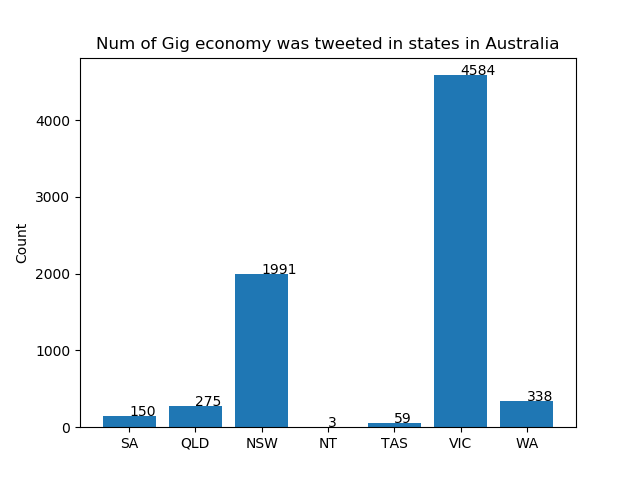
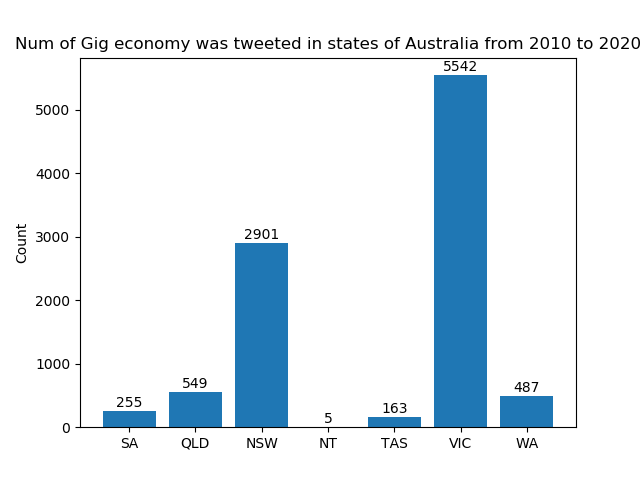
Most things has been done for Feng's part. Follow the structure and you will be merry

diff --git a/ansible/roles/application-frontend/files/frontend-app/app/templates/home.html b/ansible/roles/application-frontend/files/frontend-app/app/templates/home.html
@@ -2,28 +2,76 @@
 
 {% block body %}
 
-<div class="jumbotron text-center">
-    <h1>Welcome To Gig Economy World</h1>
-    <p class="lead">This application is built to analyse the relationship between occurance of gig economy related tweets to employment rate for states in Australia.</p>
+<div class="jumbotron text-center top-space">
+    <h1>Welcome To Gig Economy World In Australia</h1>
+    <p class="lead">presented by Forever_33</p>
 </div>
-<div class="row" style="margin-left: 0px; margin-right: 0px;">
-    <div class="form-group">
 
-        <label>Select a topic you are interested in: </label>
-        <div class="row">
-            <div class="col-lg-10">
-                <select class="form-control" id="selectedOption">
-                    <option value="1">Ubereats</option>
-                    <option value="2">Airbnb</option>
-                </select>
-            </div>
-            <div class="col-lg-2">
-                <button class="btn btn-primary">Submit</button>
+<div>
+    <div class="row form-group border-top">
+        <div class="col-lg-12">
+            <h1>Hello There!</h1>
+            <div class="pt-3">
+                <p>Have you ever heard of 'gig economy'? If you never heard of it, <strong>you are at the right place!</strong></p>
+                <p>A gig economy is a <strong>free market system</strong> in which temporary positions are common and organizations hire independent workers for short-term commitments.</p>
+                <p>Some examples of gig economy jobs including: <strong>Uber, Hungry panda, Free lancer... and even more! </strong></p>
+                <p>Here is the time for us to help <strong>you</strong> to explore the wonderful land of gig economy in Australia!</p>
+                <p>First, allow us to show you the result that shows the <strong>count of tweets related to Gig Economy in states of Australia!</strong></p>
             </div>
         </div>
     </div>
+
+    {% if session.logged_in == NULL %}
+    <div class="row form-group border-top">
+        <br /><br />
+        <div class="col-lg-7 border">
+            <img src="{{ path }}" />
+        </div>
+        <div class="col-lg-5">
+            <h2>AMAZING HUH? </h2>
+            <p>As we see that in the state of Australia, there are most of the people who tweet of gig economy! </p>
+            <p>Interesting enough, although New South Wales has 2.3M populations more than Victoria, Victoria still has the <strong>higher number of tweets related to gig economy compared to New South Wales!</strong>!</p>
+            <p>We can make an assumption that maybe <strong>gig economy activity in Victoria has been conducted more frequently than other states.</strong></p>
+            <br />
+            <p>Furthurmore, as we look into details, it is not hard to find that <strong>only a few of people actually tweet of gig economy in Northern Territory.</strong></p>
+            <br />
+            <br />
+            <br />
+            <br />
+            <br />
+        </div>
+    </div>
+       
+    {% endif %}
+    <div class="row form-group">
+        <div class="col-lg-12 border-top">
+
+            <h2>Now is your time to find out the truth about Gig Economy!</h2>
+            <br />
+        </div>
+
+        <div class="col-lg-12" style="font-size: 18px;">
+            <label>Select a topic you are interested in: </label>
+        </div>
+        <form action="/scenario" method="post">
+            <div class="col-lg-10">
+
+                <select class="form-control" name="id">
+                    <option value="yun">Yun's scenario</option>
+                    <option value="rohan">Rohan's scenario</option>
+                    <option value="alvin">Alvin's scenario</option>
+                </select>
+
+            </div>
+            <div class="col-lg-2">
+                <button class="btn btn-primary" type="submit">Submit</button>
+            </div>
+            <div class="col-lg-12 bottom-space">
+            </div>
+        </form>
+
+    </div>
+       
 </div>
-{% if searched %}
-<img src={{path}} />
-{% endif %}
+
 {% endblock %}

diff --git a/ansible/roles/application-frontend/files/frontend-app/app/templates/about.html b/ansible/roles/application-frontend/files/frontend-app/app/templates/about.html
@@ -1,9 +1,95 @@
 {% extends 'layout.html' %}
 
 {% block body %}
-    <div>
-        <h1>About Us</h1>
-        <p>We are team 33 and we are proud of what we have done.</p>
+    <div class="jumbotron text-center">
+        <h1>The hard work was done during the quarantine period by all these heros...... and heroine</h1>
+        <p class="lead">presented by Forever_33</p>
     </div>
+    <div>
+        <div class="row border-top">
+            <div class="col-lg-12">
+                <h1>Group 33 (Forever_33)</h1>
+                <img class="group-img-size" src="img/group33photo.png" />
 
+            </div>
+            <div class="col-lg-12">
+                <p>
+                    <br />
+                    Despite of the hardship to meet together due to Covid-19 Pandemic, a group of young, passionate, determined heros (& heroine) decided to conquer the limitation to propose a great insight
+                    on gig economy, by creating this web application to satisfy the curiosity of the community.
+                    The hard work behind this project including setting up cloud system using
+                    <strong>ansible, Melbourne Nectar Cloud, docker</strong>, data harvesting using <strong>Twitter API</strong>, web application
+                    development using <strong>Flask.</strong>
+                </p>
+                <p>Total hardwork sowed in: <strong>734.33 hours</strong></p>
+            </div>
+        </div>
+        <div class="row border-top">
+            <div class="col-lg-7 border-right">
+                <h1>Shorye</h1>
+                <img src="img/Shorye.png" />
+            </div>
+            <div class="col-lg-5 pt-3 md-fontsize">
+                <ul>
+                    <li>Main Infrastructure Engineer</li>
+                </ul>
+            </div>
+        </div>
+        <br />
+        <div class="row border-top">
+            <div class="col-lg-7 border-right">
+                <h1>Rohan</h1>
+                <img src="img/Rohan.png" />
+            </div>
+            <div class="col-lg-5 pt-3 md-fontsize">
+                <ul>
+                    <li>Main Infrastructure Engineer</li>
+                </ul>
+            </div>
+        </div>
+        <br />
+        <div class="row border-top">
+            <div class="col-lg-7 border-right">
+                <h1>Feng</h1>
+                <img src="img/Feng.png" />
+            </div>
+            <div class="col-lg-5 pt-3 md-fontsize">
+                <ul>
+                    <li>Twitter Harvester Developer</li>
+                    <li>Front End Developer</li>
+                    <li>Integrating tweepy to twitter harvester</li>
+                    <li>Bug fixing for twitter harvester</li>
+                    <li>Setting up MVC structure for web application</li>
+                    <li>Deployment of Web Application</li>
+                </ul>
+            </div>
+        </div>
+        <br />
+        <div class="row border-top">
+            <div class="col-lg-7 border-right">
+                <h1>Alvin</h1>
+                <img src="img/Alvin.png" />
+            </div>
+            <div class="col-lg-5 pt-3 md-fontsize">
+                <ul>
+                    <li>Twitter Harvester Developer</li>
+                </ul>
+            </div>
+        </div>
+        <br />
+        <div class="row border-top">
+            <div class="col-lg-7 border-right">
+                <h1>Yun</h1>
+                <img src="img/Yun.png" />
+            </div>
+            <div class="col-lg-5 pt-3 md-fontsize">
+                <ul>
+                    <li>Twitter Harvester Developer</li>
+                </ul>
+            </div>
+        </div>
+        <br />
+
+
+    </div>
 {% endblock %}

diff --git a/ansible/roles/application-frontend/files/frontend-app/app/templates/includes/_navbar.html b/ansible/roles/application-frontend/files/frontend-app/app/templates/includes/_navbar.html
@@ -1,4 +1,4 @@
-<nav class="navbar navbar-default">
+<nav class="navbar navbar-default sticky">
       <div class="container">
         <div class="navbar-header">
           <button type="button" class="navbar-toggle collapsed" data-toggle="collapse" data-target="#navbar" aria-expanded="false" aria-controls="navbar">
@@ -7,14 +7,13 @@
             <span class="icon-bar"></span>
             <span class="icon-bar"></span>
           </button>
-          <a class="navbar-brand" href="#">Group33</a>
+          <a class="navbar-brand" href="#">Forever_33</a>
         </div>
         <div id="navbar" class="collapse navbar-collapse">
           <ul class="nav navbar-nav">
             <li><a href="/">Home</a></li>
-            <li><a href="/about">About</a></li>
+            <li><a href="/about">About Us</a></li>
           </ul>
-
           <ul class="nav navbar-nav navbar-right">
 
           </ul>

diff --git a/ansible/roles/application-frontend/files/frontend-app/app/content/gigeco.css b/ansible/roles/application-frontend/files/frontend-app/app/content/gigeco.css
@@ -1,0 +1,58 @@
+.mx-0{
+    margin-left: 0px;
+    margin-right: 0px;
+}
+
+p {
+    font-size: 18px!important;
+}
+
+.pt-1 {
+    padding-top: 10px;
+}
+.pt-2 {
+    padding-top: 20px;
+}
+.pt-3 {
+    padding-top: 30px;
+}
+
+.sticky {
+    position: fixed;
+    top: 0;
+    width: 100%;
+    z-index: 100000000;
+}
+
+.border {
+    border: solid;
+    border-color: lightgray;
+
+}
+
+.border-top {
+    border-top: solid;
+    border-color:gray;
+}
+
+.border-right{
+    border-right: solid;
+    border-color: gray;
+}
+
+.bottom-space {
+    padding-bottom: 150px;
+}
+
+.top-space{
+    margin-top: 55px;
+}
+
+.group-img-size {
+    width: 80em;
+    height: 100%;
+}
+
+.md-fontsize{
+    font-size: 30px;
+}

diff --git a/ansible/roles/application-frontend/files/frontend-app/app/templates/layout.html b/ansible/roles/application-frontend/files/frontend-app/app/templates/layout.html
@@ -1,10 +1,12 @@
 <!DOCTYPE html>
 <html>
-  <head>
+<head>
     <meta charset="utf-8">
-    <title>Group33</title>
+    <title>Forever_33</title>
     <link rel="stylesheet" href="https://maxcdn.bootstrapcdn.com/bootstrap/3.3.7/css/bootstrap.min.css">
-  </head>
+    <link rel="shortcut icon" href="img/33.png">
+    <link rel="stylesheet" href="content/gigeco.css" />
+</head>
   <body>
       {% include 'includes/_navbar.html' %}
       <div class="container">

diff --git a/ansible/roles/application-frontend/files/couchdb-analysis/analysis/couchdb/twitter/LocalGig/views/local-gig-view/map.js b/ansible/roles/application-frontend/files/couchdb-analysis/analysis/couchdb/twitter/LocalGig/views/local-gig-view/map.js
@@ -1,0 +1,3 @@
+function (doc) {
+    emit([doc.location, doc.keyword], 0);
+}

diff --git a/ansible/roles/application-frontend/files/couchdb-analysis/analysis/couchdb/twitter/LocalGig/views/local-gig-view/reduce.js b/ansible/roles/application-frontend/files/couchdb-analysis/analysis/couchdb/twitter/LocalGig/views/local-gig-view/reduce.js
@@ -1,0 +1,1 @@
+_count

diff --git a/ansible/roles/application-frontend/files/frontend-app/app/app.py b/ansible/roles/application-frontend/files/frontend-app/app/app.py
@@ -1,24 +1,43 @@
-from flask import Flask, render_template
 import controller
+from flask import Flask, render_template, flash, redirect, url_for, session, request, logging, send_from_directory
 
-app = Flask(__name__)
+app = Flask(__name__, static_url_path='')
+
 # Index
 @app.route('/')
 def index():
-    return render_template('home.html',searched=False)
+    filepath = controller.GetLocalGig()
+    return render_template('home.html',path=filepath)
 
 # About
 @app.route('/about')
 def about():
     return render_template('about.html')
 
-@app.route('/stateCount')
-def stateCount():
-    filepath = controller.GetLocalGig()
+# Scenario
+@app.route('/scenario', methods=['GET', 'POST'])
+def scenario():
+    if request.method == 'POST':
+        id = request.form['id']
+        if id == "yun":
+            return render_template('about.html')
+        if id == "rohan":
+            return render_template('about.html')
+        if id == "alvin":
+            return render_template('about.html')
 
-    return render_template('home.html', path=filepath, searched= True)
 
+#Getting css file
+@app.route('/content/<path:path>')
+def serve_css(path):
+    return send_from_directory('content', path)
+
+#Getting img file
+@app.route('/img/<path:path>')
+def serve_img(path):
+    return send_from_directory('img', path)
 
 if __name__ == '__main__':
-    app.run(debug=True,host='0.0.0.0')
+    app.run(debug=True, host='0.0.0.0')
+
 

diff --git a/ansible/roles/application-frontend/files/frontend-app/app/controller.py b/ansible/roles/application-frontend/files/frontend-app/app/controller.py
@@ -52,20 +52,12 @@ def GetLocalGig():
     #print(statemap)
     statekeys = list(statemap.keys())
     statevalues = list(statemap.values())
-    response = couchdb_requests.couch_get_localGig({"COUCHDB_BASE_URL": "http://172.26.133.111:8080/", "USERNAME": "admin", "PASSWORD": "admin"},
-                      "_design/LocalGig/",
-                      "_view/local-gig-view",
-                     "?reduce=true&group_level=2")
-
-    for i in response["rows"]:
-       print("State: %s"%i["key"][0] + " ,Keyword: %s"%i["key"][1] + " ,Count: %d"%i["value"])
     fig, ax = plt.subplots()
     ax.bar(statekeys, statevalues)
     ax.set_ylabel('Count')
-    ax.set_title('Num of Gig economy was tweeted in states in Australia')
+    ax.set_title('Num of Gig economy was tweeted in states of Australia from 2010 to 2020')
     ax.set_xticklabels(statekeys)
     for a,b in zip(statekeys, statevalues):
-        plt.text(a, b, str(b))
+        plt.text(a, b + 130, str(b), horizontalalignment='center', verticalalignment='center')
     fig.savefig('img/stateGig.png')
     return "img/stateGig.png"
-GetLocalGig()
